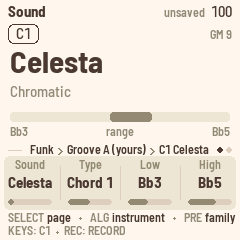
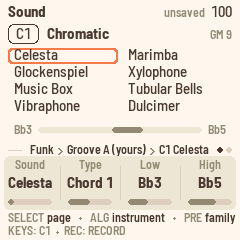
Sound: a family browser in place of the big name
The sound's name was said three times (big title, the Sound knob, the tag). The page now shows the sound's GM
family as its heading and the family's eight sounds in two columns of four, the sound ringed coral (the cursor),
so KNOB 1 and PRESETS show where they go; the GM number small at the right; the range bar under it, its ends at
its sides. Drums: "Drums" and the kit, no family. A melody: its family at the top of its page (plum); turning its
Sound knob (or PRESETS) shows the browser there for a moment. Screens: the knob turned, Synth Pad, Ethnic, a
melody turned. Manual's Sound re-written, its figure re-shot.

Claude-Session: https://claude.ai/code/session_01KrDAEHZwidK2Hjis9LandD

Changed region(s): [[0.0292, 0.1167, 0.9625, 0.5833]]

diff --git a/firmware/src/app/pages.c b/firmware/src/app/pages.c
@@ -1759,6 +1759,7 @@ static int trk_rec_shown(void)
 }
 #define TR_Y 36                                      /* the bars' top */
 static void draw_lead(int rec);
+static void sound_head(const char *trk, uint32_t prog, int drums, int lead);
 static void draw_lead_rec(void) { draw_lead(1); }
 static void draw_trk_rec(void)
 {
@@ -1973,15 +1974,10 @@ static void draw_lead(int rec)
         return;
     ui.sig[1] = h;
     cv_begin(240, MAIN_H, K_BG);
-    if (!rec) {   /* the line: "M1  81 Square Lead"; under it where: "section 2 . bar 1" (the cursor, coral; playing,
+    if (!rec) {   /* the line: "M1  Synth Lead  GM 81" (Sound's head); under it where: "section 2 . bar 1" (the cursor, coral; playing,
                    * "section 3 . bar 2.3", teal), the notes in the section */
-        int32_t x = pill(8, 0, 0, TRACK_NAME[ARR_LD1 + k], K_PLUM, K_BG), gx = 232;
-        if ((lt->chan & 15u) != 9u) {                /* its General MIDI number, small, at the right */
-            itoa_u(lt->program + 1u, cat_s(t, "GM "));
-            gx -= text_w(&FONT_XS, t);
-            cv_text(gx, 3, &FONT_XS, t, K_DIM);
-        }
-        text_fit(x + 8, 2, &FONT_B, (lt->chan & 15u) == 9u ? "Drum kit" : GM_PROGRAM[lt->program & 127u], gx - 8 - x - 8, K_TEXT);
+        int32_t x;                                   /* (the head: Sound's, its family; the sound: the knob's value) */
+        sound_head(TRACK_NAME[ARR_LD1 + k], lt->program & 127u, (lt->chan & 15u) == 9u, 1);
         if (!n)
             cv_text(10, 20, &FONT_XS, "no sections yet (Song page)", K_DIM);
         else {
@@ -2136,15 +2132,48 @@ static void draw_patset(void)
     }
     cv_blit(0, MAIN_Y);
 }
-/* the selected instrument's sound (Sound): its pill, the sound's name big, its family and General MIDI number small, the
- * keys it plays over (the range over the whole MIDI keyboard; drums: none, a sound on each key). Sound 2: what the high
- * key does, as a picture: an octave, the roots above the high key an octave down (Chord 1 and Bass only) */
+/* Sound's browser: the family of eight around the sound, two columns of four (1-4, 5-8), the sound the cursor (a coral
+ * ring; the knob's value, the tag's name: the same sound, named once more here as where you are among its family) */
+#define SB_Y 24                                      /* the list's top; a row 17 px */
+#define SB_RH 17
+#define SB_CW 110                                    /* a column (the longest name, "Tango Accordion": 98 px) */
+static void sound_list(uint32_t prog)
+{
+    uint32_t f = prog & 120u, i;
+    for (i = 0; i < 8u; i++) {
+        int32_t x = 8 + (int32_t)(i / 4u) * (SB_CW + 4), y = SB_Y + (int32_t)(i % 4u) * SB_RH;
+        if (f + i == prog) {
+            cv_round(x, y, SB_CW, SB_RH - 1, 4, K_ACCENT);
+            cv_round(x + 2, y + 2, SB_CW - 4, SB_RH - 5, 3, K_BG);
+        }
+        text_fit(x + 6, y - 1, &FONT_S, GM_PROGRAM[f + i], SB_CW - 10, K_TEXT);
+    }
+}
+/* the Sound page's head: the instrument's pill (a melody's plum), the family's name (the list's heading; a melody's
+ * plum), the sound's General MIDI number small at the right ("GM 9"); drums: "Drums", no number */
+static void sound_head(const char *trk, uint32_t prog, int drums, int lead)
+{
+    char a[12];
+    int32_t x = lead ? pill(8, 0, 0, trk, K_PLUM, K_BG) : pill_o(8, 0, 0, trk, K_TEXT, K_TEXT), gx = 232;
+    if (!drums) {
+        itoa_u(prog + 1u, cat_s(a, "GM "));
+        gx -= text_w(&FONT_XS, a);
+        cv_text(gx, 3, &FONT_XS, a, K_DIM);
+    }
+    text_fit(x + 8, 2, &FONT_B, drums ? "Drums" : GM_FAMILY[(prog & 127u) / 8u], gx - 8 - x - 8, lead ? K_PLUM : K_TEXT);
+}
+/* a melody's Sound page while its Sound knob turns (or PRE steps the families): the browser, over the song view */
+static int sound_browsing(void) { return app.lead && ui.touched == 0 && plat_ms() < ui.touch_until; }
+/* the selected instrument's sound (Sound): the head (its family, the General MIDI number), the family's eight sounds
+ * (the browser), the keys it plays over (the range over the whole MIDI keyboard; drums: the kit, a sound on each key;
+ * a melody: no range, its browser only while the Sound knob turns). Sound 2: what the high key does, as a picture:
+ * an octave, the roots above the high key an octave down (Chord 1 and Bass only) */
 static void draw_track(void)
 {
     int s = pslot(), k2 = ui.page == P_TRACK2;
     arr_trk_t lb;
     const arr_trk_t *t = sel_arr(&lb);
-    int drums = (t->chan & 15u) == 9u;
+    int drums = (t->chan & 15u) == 9u, lead = app.lead != 0;
     uint32_t h = hash(2166136261u, (uint32_t)s | (uint32_t)sel_trk() << 4 | (uint32_t)k2 << 8);
     char a[24], b[16];
     h = hash(h, t->program | (uint32_t)t->chan << 8 | (uint32_t)t->x.type << 16 | (uint32_t)t->x.hikey << 24);
@@ -2153,15 +2182,15 @@ static void draw_track(void)
         return;
     ui.sig[1] = h;
     cv_begin(240, MAIN_H, K_BG);
-    {   /* the pill; the General MIDI number, small, at the right ("GM 9") */
+    if (k2) {   /* the pill; the General MIDI number, small, at the right ("GM 9"); the sound's name by the pill */
         int32_t x = pill_o(8, 0, 0, TRACK_NAME[sel_trk()], K_TEXT, K_TEXT);
         if (!drums) {
             itoa_u(t->program + 1u, cat_s(a, "GM "));
             cv_text(232 - text_w(&FONT_XS, a), 3, &FONT_XS, a, K_DIM);
         }
-        if (k2)                                      /* (Sound 2: the sound's name by the pill, small) */
-            text_fit(x + 8, 2, &FONT_B, drums ? "Drum kit" : GM_PROGRAM[t->program & 127u], 180 - x, K_TEXT);
-    }
+        text_fit(x + 8, 2, &FONT_B, drums ? "Drum kit" : GM_PROGRAM[t->program & 127u], 180 - x, K_TEXT);
+    } else
+        sound_head(TRACK_NAME[sel_trk()], t->program & 127u, drums, lead);
     if (k2) {   /* the high key: an octave C..B, the roots above it shaded (an octave down), it marked */
         static const uint8_t BLK[12] = {0, 1, 0, 1, 0, 0, 1, 0, 1, 0, 1, 0};
         int hk = t->x.hikey, works = t->x.type == XT_CHORD1 || t->x.type == XT_BASS;
@@ -2188,45 +2217,23 @@ static void draw_track(void)
         cv_blit(0, MAIN_Y);
         return;
     }
-    if (drums) {
-        cv_text(10, 28, &FONT_L, "Drum kit", K_TEXT);
-        cv_text(10, 64, &FONT_S, "Channel 10: a sound on each key", K_DIM);
+    if (drums) {   /* the kit: one entry, no family (nothing to step through), ink: it stays */
+        cv_round(8, SB_Y, SB_CW, SB_RH - 1, 4, K_TEXT);
+        cv_round(9, SB_Y + 1, SB_CW - 2, SB_RH - 3, 3, K_BG);
+        cv_text(14, SB_Y - 1, &FONT_S, "Drum kit", K_TEXT);
+        cv_text(10, SB_Y + SB_RH + 6, &FONT_S, "Channel 10: a sound on each key", K_DIM);
     } else {
-        int two = 0;
-        const char *nm = GM_PROGRAM[t->program & 127u];
-        int32_t nx = 10;
-        if (text_w(&FONT_L, nm) <= 230 - nx)         /* the name big: "Clavinet"; too long, on two lines ("Tango" /
-                                                      * "Accordion"; the family line gives way), else smaller */
-            cv_text(nx, 24, &FONT_L, nm, K_TEXT);
-        else {
-            char l1[24];
-            uint32_t i, sp = 0;
-            for (i = 0; nm[i] && i < sizeof l1 - 1u; i++)
-                if ((l1[i] = nm[i]) == ' ') {
-                    l1[i] = 0;
-                    if (text_w(&FONT_L, l1) <= 230 - nx)
-                        sp = i;
-                    l1[i] = ' ';
-                }
-            if (sp && text_w(&FONT_L, nm + sp + 1) <= 230 - nx) {
-                l1[sp] = 0;
-                cv_text(nx, 20, &FONT_L, l1, K_TEXT);
-                cv_text(nx, 50, &FONT_L, nm + sp + 1, K_TEXT);
-                two = 1;
-            } else
-                text_fit(nx, 32, &FONT_B, nm, 230 - nx, K_TEXT);
-        }
-        if (!two)
-            cv_text(10, 60, &FONT_S, GM_FAMILY[(t->program & 127u) / 8u], K_DIM);
-        {   /* the range over the whole MIDI keyboard */
-            int32_t x0 = 10, w = 220, y = 88, lx = x0 + t->x.lo * w / 127, hx = x0 + t->x.hi * w / 127;
-            cv_round(x0, y, w, 10, 4, K_PANEL);
-            cv_round(lx, y, hx - lx < 4 ? 4 : hx - lx, 10, 4, K_DIM);
+        sound_list(t->program & 127u);
+        if (!lead) {   /* the range over the whole MIDI keyboard, its two ends at its sides ("G3 ==== G5") */
+            int32_t y = SB_Y + 4 * SB_RH + 6, x0 = 38, w = 164, lx, hx;
             note_name(t->x.lo, a);
             note_name(t->x.hi, b);
-            cv_text(x0, y + 12, &FONT_XS, a, K_DIM);
-            cv_text(x0 + w - text_w(&FONT_XS, b), y + 12, &FONT_XS, b, K_DIM);
-            cv_text(120 - text_w(&FONT_XS, "range") / 2, y + 12, &FONT_XS, "range", K_DIM);
+            lx = x0 + t->x.lo * w / 127;
+            hx = x0 + t->x.hi * w / 127;
+            cv_round(x0, y + 5, w, 6, 3, K_PANEL);
+            cv_round(lx, y + 5, hx - lx < 6 ? 6 : hx - lx, 6, 3, K_DIM);
+            cv_text(x0 - 6 - text_w(&FONT_XS, a), y, &FONT_XS, a, K_DIM);
+            cv_text(x0 + w + 6, y, &FONT_XS, b, K_DIM);
         }
     }
     cv_blit(0, MAIN_Y);
@@ -3735,7 +3742,7 @@ static void draw_page(void)
         draw_pattern();
     else if (ui.page == P_PATSET)
         draw_patset();
-    else if (ui.page == P_TRACK && app.lead)
+    else if (ui.page == P_TRACK && app.lead && !sound_browsing())
         draw_lead(0);                                /* (a melody: where its notes are in the song) */
     else if (ui.page == P_TRACK || ui.page == P_TRACK2)
         draw_track();

diff --git a/MANUAL.md b/MANUAL.md
@@ -575,7 +575,9 @@ section's melody, clear it first (**SEL**: the list opens on **CLEAR M1 IN SECTI
 - **Quantise:** **SEL**'s **QUANTISE M1 IN SECTION 3** moves that section's M1 notes to the nearest line of the
   Band page's grid (shown at the right: 16, 8T, ...). Record with the grid off to play freely, then quantise.
   HOME + REC undoes it in one step.
-- **Sound:** a melody's Sound is one page: **KNOB 1** its sound, **KNOB 2** its channel, **KNOB 4 Velocity** how
+- **Sound:** a melody's Sound is one page, its sound's family at the top ("M1 Synth Lead", plum). Turning
+  **KNOB 1** (or **PRESETS**, a family) shows the family's eight sounds there for a moment, the sound ringed, as for
+  an instrument. **KNOB 1** its sound, **KNOB 2** its channel, **KNOB 4 Velocity** how
   hard the notes you record from then on are (the keys have no velocity; 100 at first). It always plays "as
   played" over the whole keyboard: no type, range or high key to set. The Mixer and Mixer tone pages have its strip
   (black keys 9 and 10 pick M1, M2).
@@ -596,11 +598,15 @@ instrument.
 
 ![The Sound page](docs/img/manual/sound.png)
 
-The page shows the instrument's sound big ("Celesta"), its family and General MIDI number small ("Chromatic",
-"GM 9"), and the range it plays in, over the whole MIDI keyboard.
+The page is a browser: the sound's General MIDI family of eight as its heading ("Chromatic"), the family's
+sounds in two columns of four (Celesta to Dulcimer), the sound the instrument plays ringed coral, its General
+MIDI number small at the right ("GM 9"). Turning KNOB 1, the ring moves through the family, so you see where
+you are going. Under them, the range it plays in (its low and high ends at the sides), over the whole MIDI
+keyboard.
 
 - **KNOB 1** the sound: the 128 General MIDI sounds, by name. **PRESETS** jumps a family of eight
-  (pianos, organs, guitars, basses...). A drum instrument plays the drum kit (no range, no Low or High).
+  (pianos, organs, guitars, basses...). A drum instrument plays the drum kit: the page shows "Drums" and the kit,
+  no family, no range, no Low or High.
 - **KNOB 2** the type: how the instrument follows the chords ("as played" once Polly has switched it so).
 - **KNOB 3, KNOB 4** the low and high limits. A note outside them moves by octaves until it fits.
 
